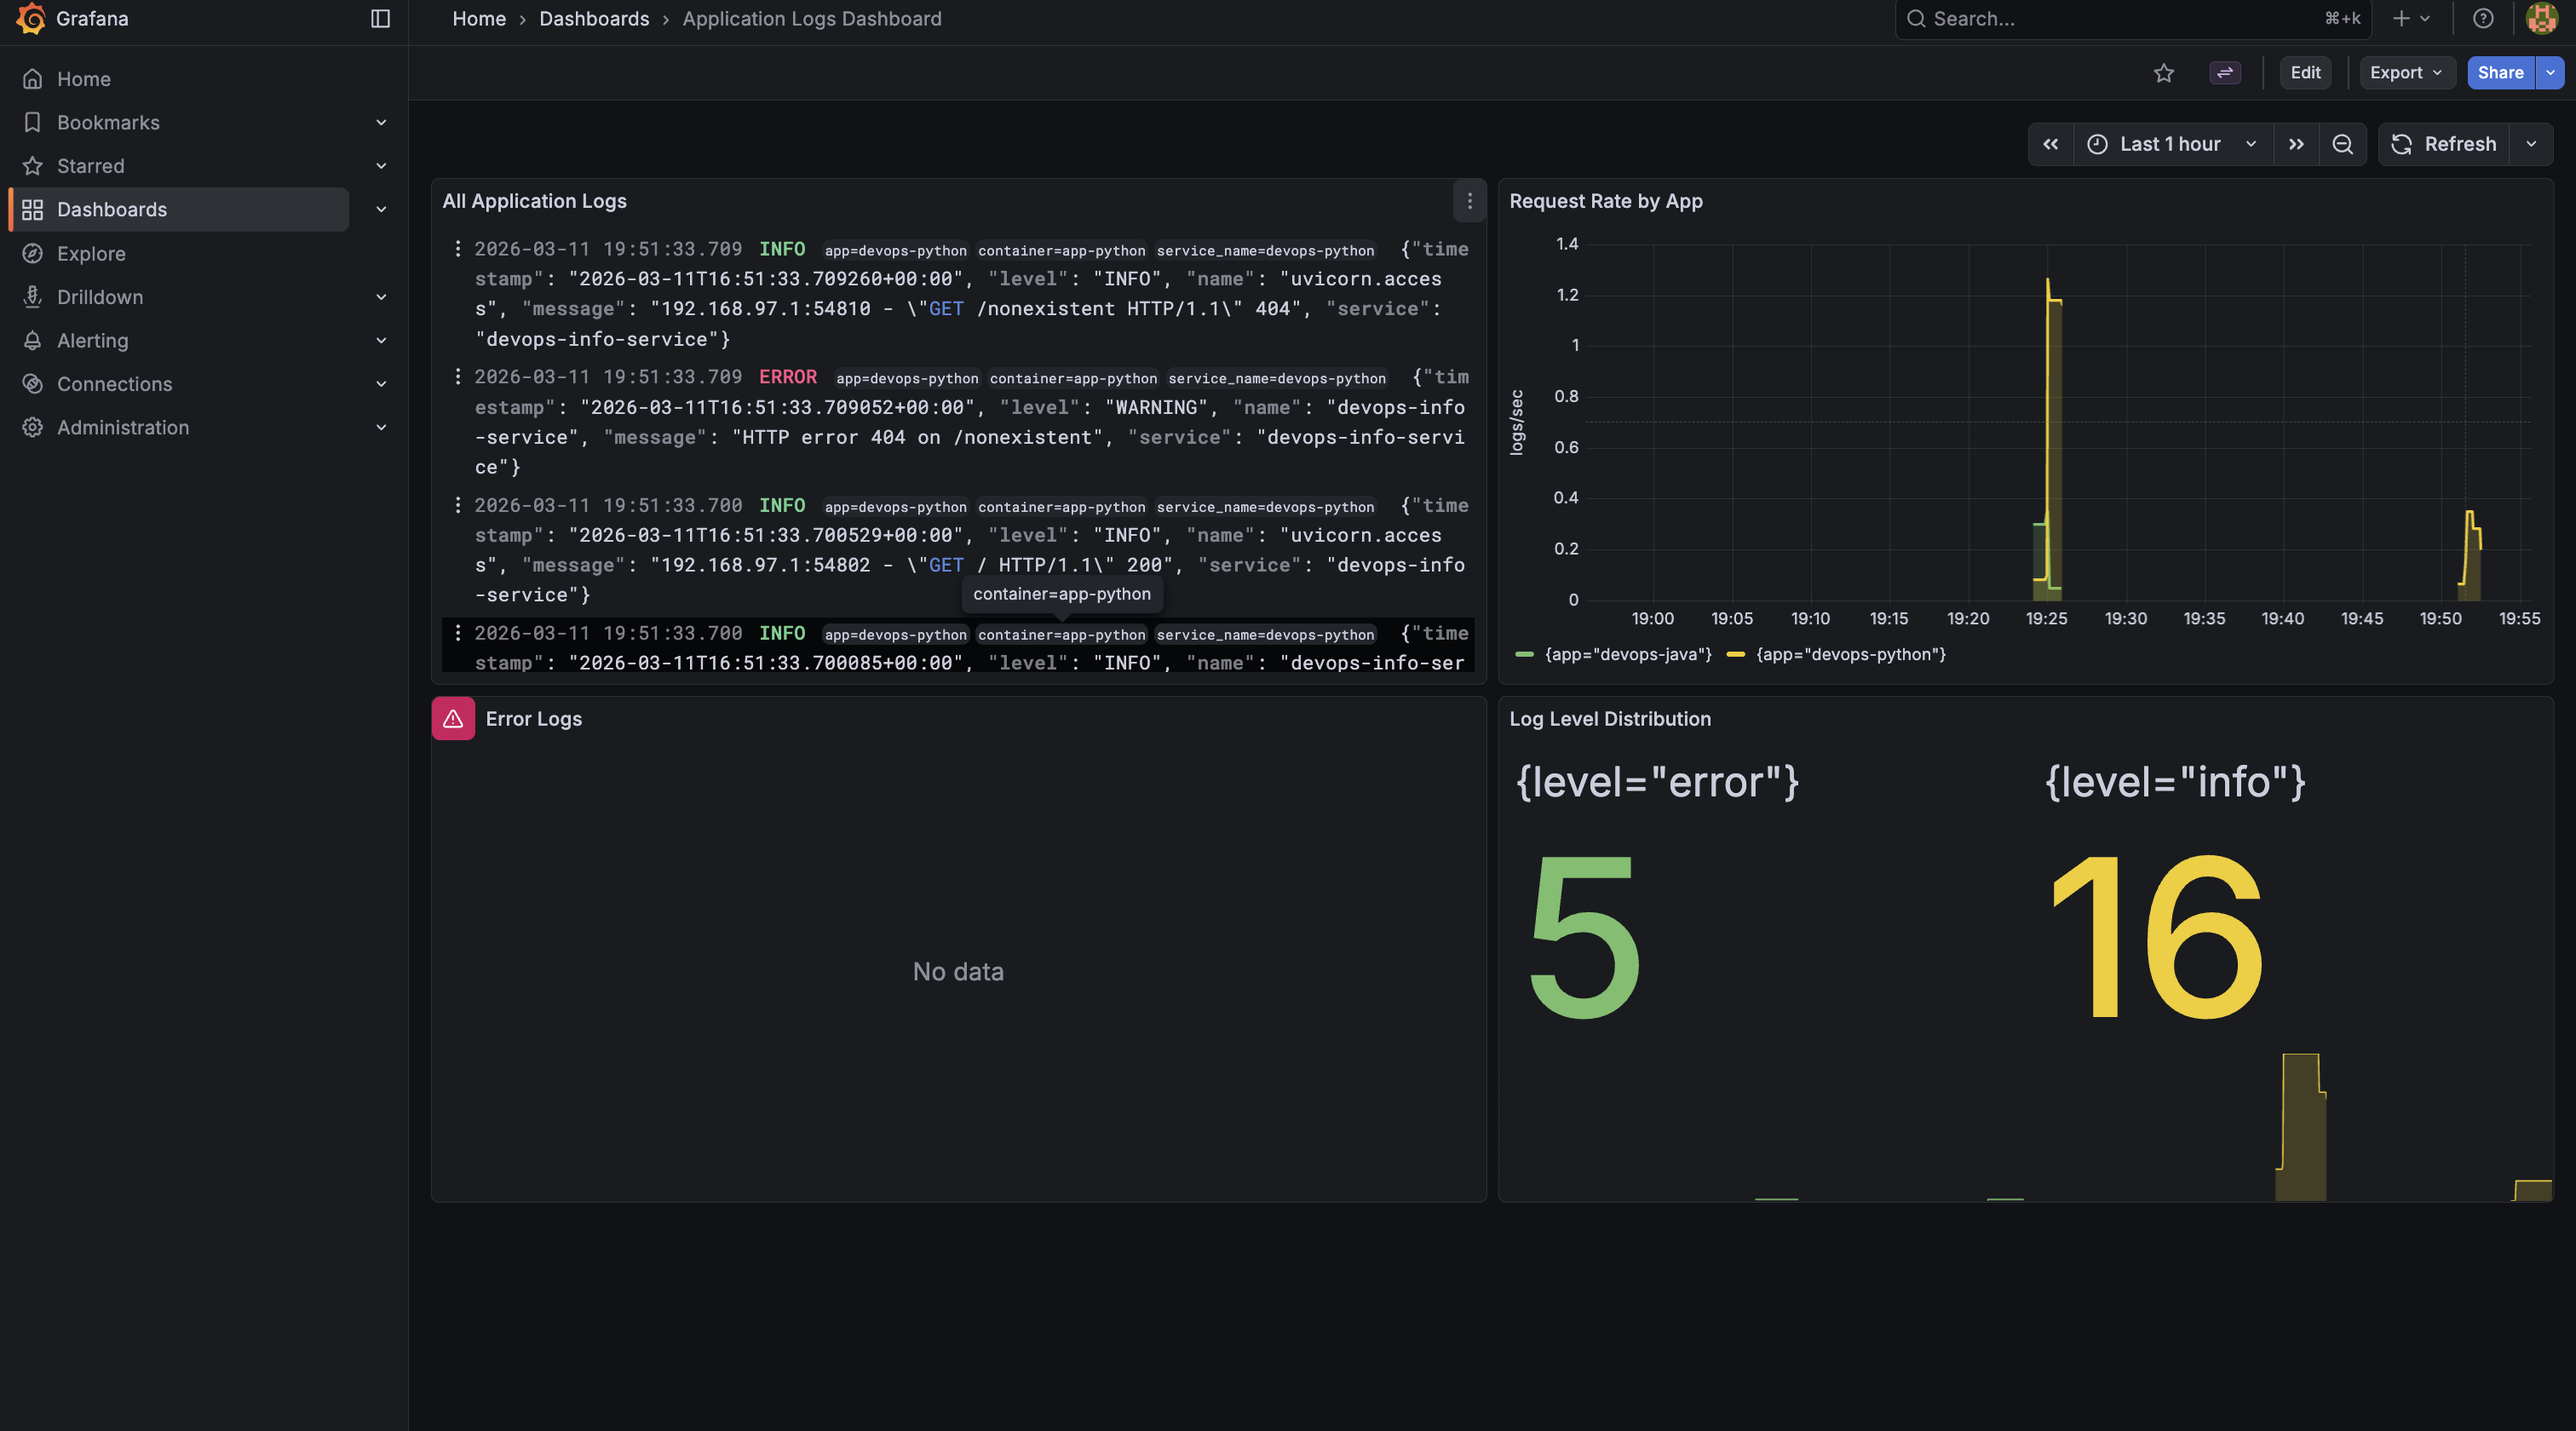
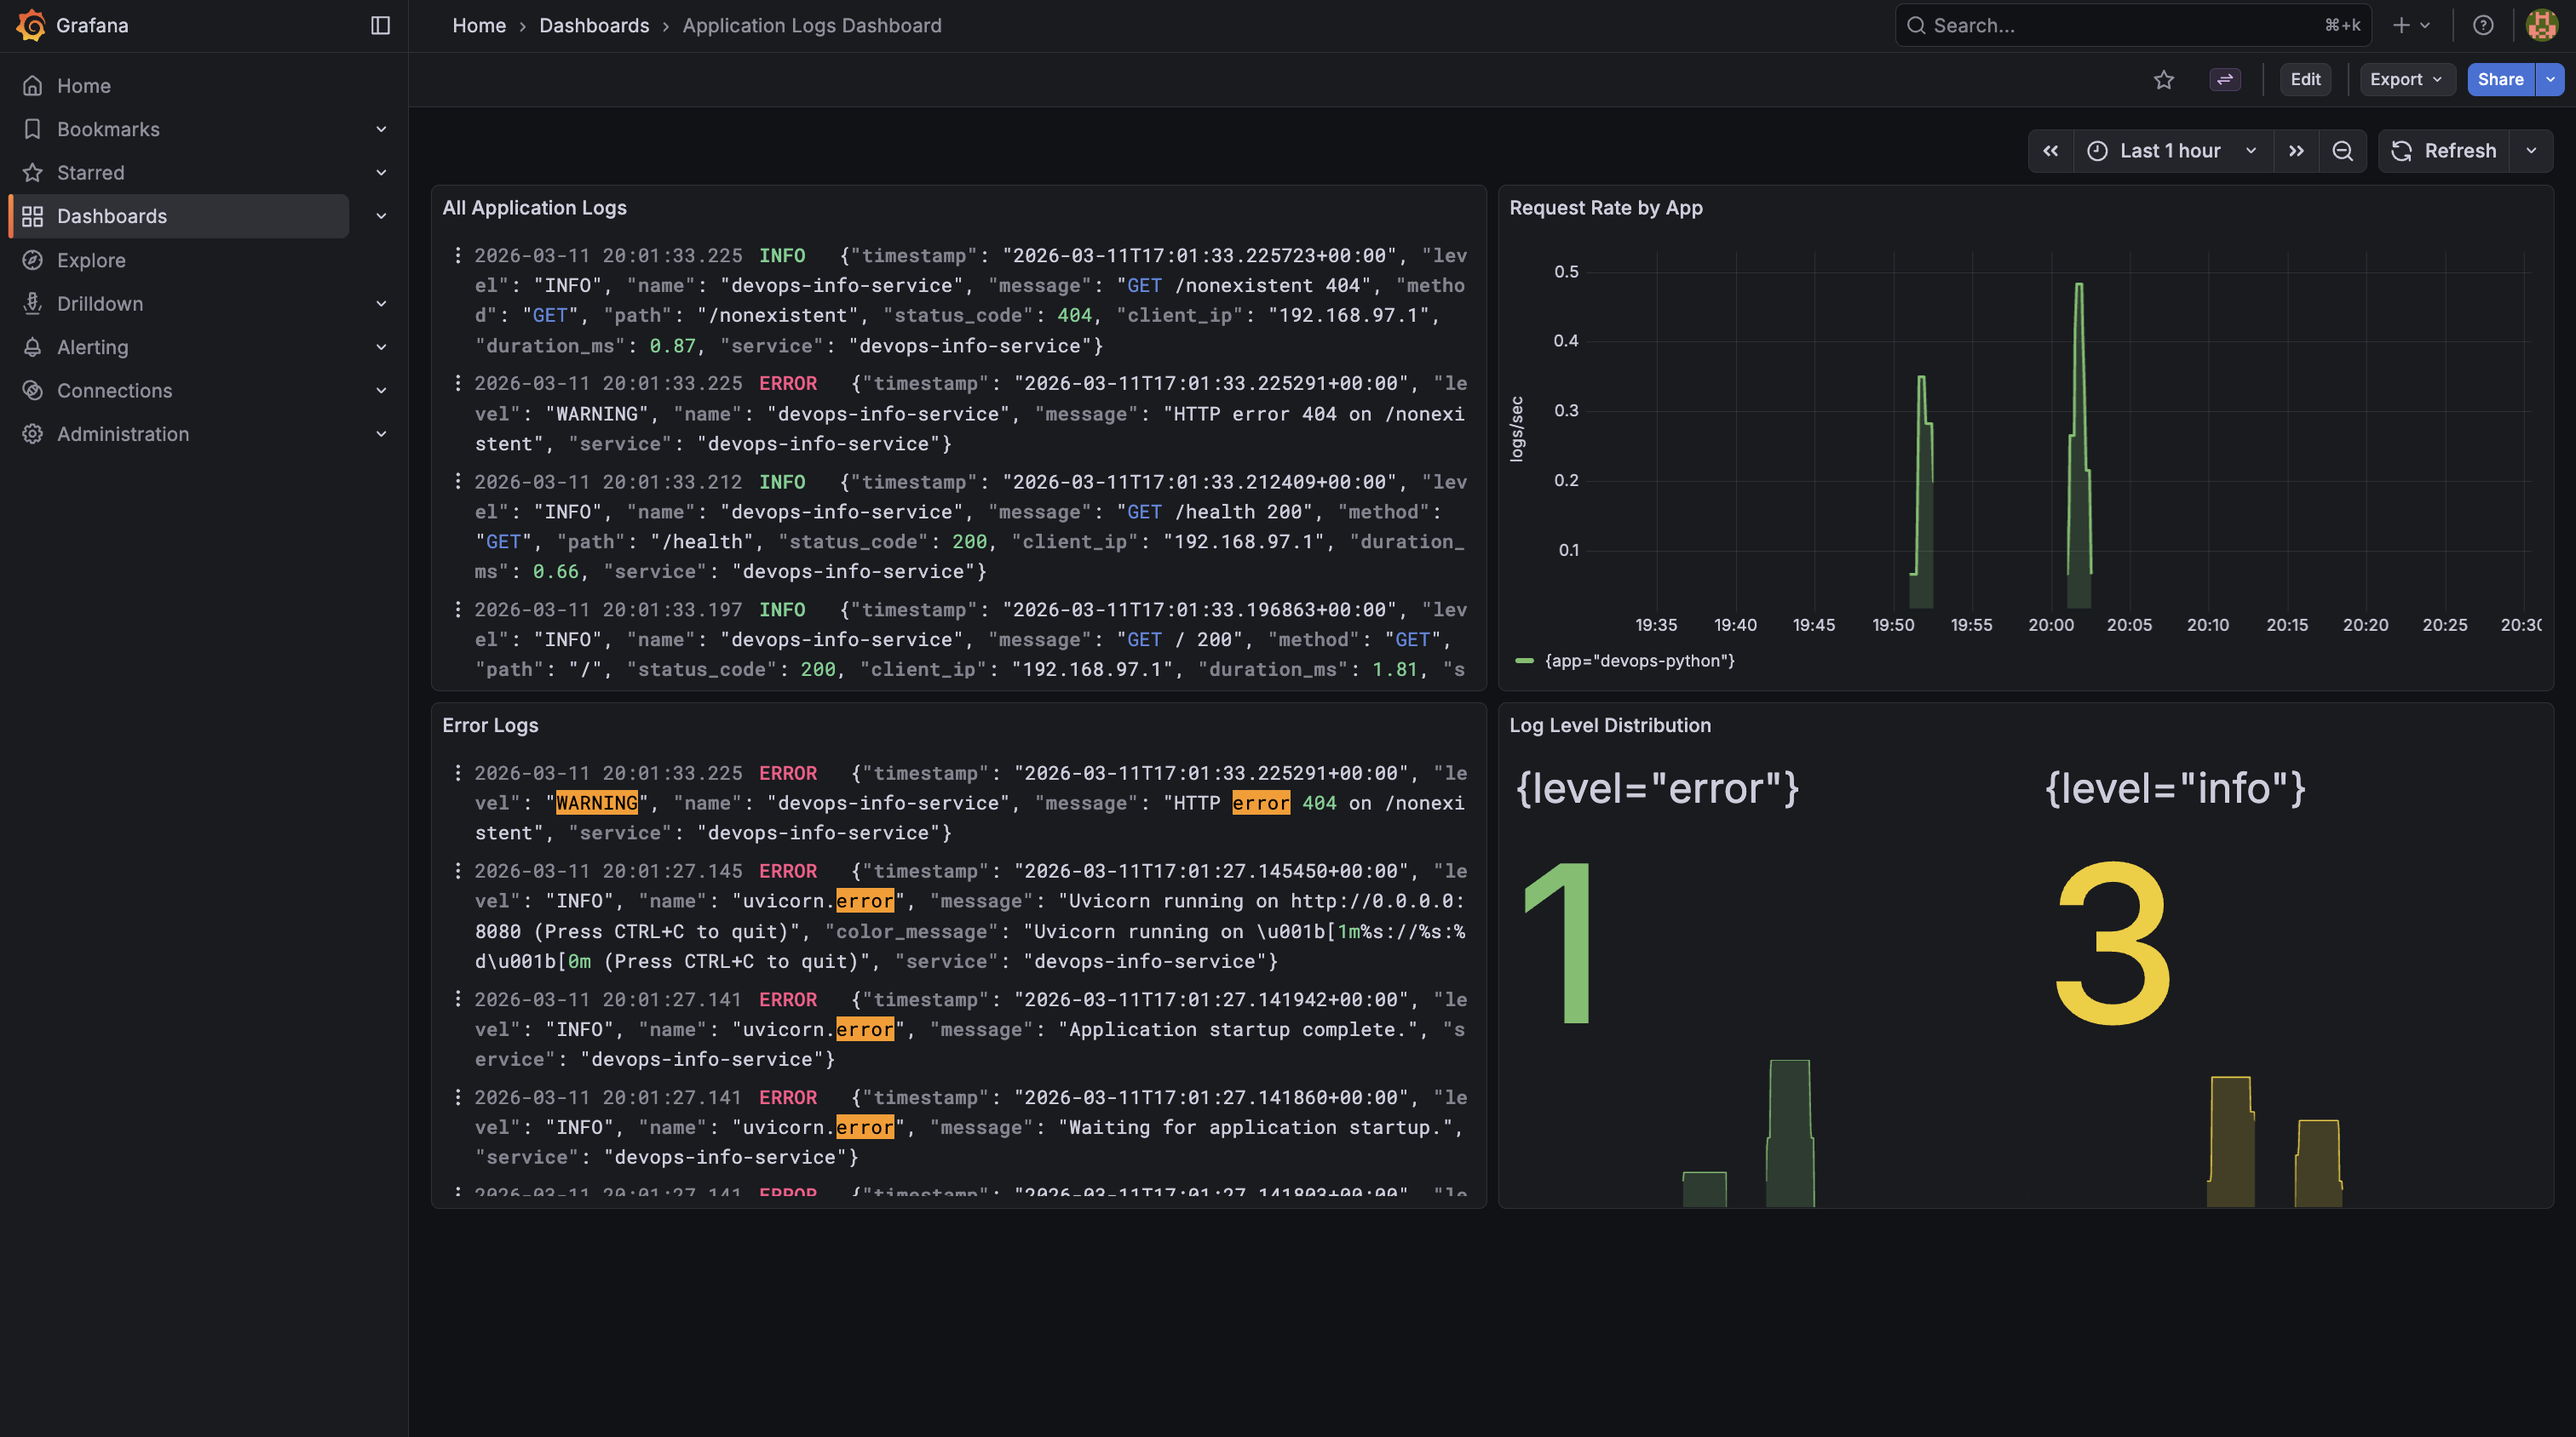
fix: dashboard query in dashboard

diff --git a/monitoring/docs/LAB07.md b/monitoring/docs/LAB07.md
@@ -165,10 +165,10 @@ Displays logs-per-second for each app as separate time series lines, useful for 
 ### Panel 3 -- Error Logs (Logs visualization)
 
 ```logql
-{app=~"devops-.*"} |= "ERROR" or {app=~"devops-.*"} |= "error"
+{app=~"devops-.*"} |~ "(?i)(error|warning)"
 ```
 
-Filters for error-level log lines only. Catches both uppercase (Python JSON formatter) and lowercase (Java/Spring) patterns.
+Filters lines that contain `error` or `warning` in a case-insensitive way. This works across both the Python app and Java app logs without relying on identical JSON fields.
 
 ### Panel 4 -- Log Level Distribution (Stat)
 
